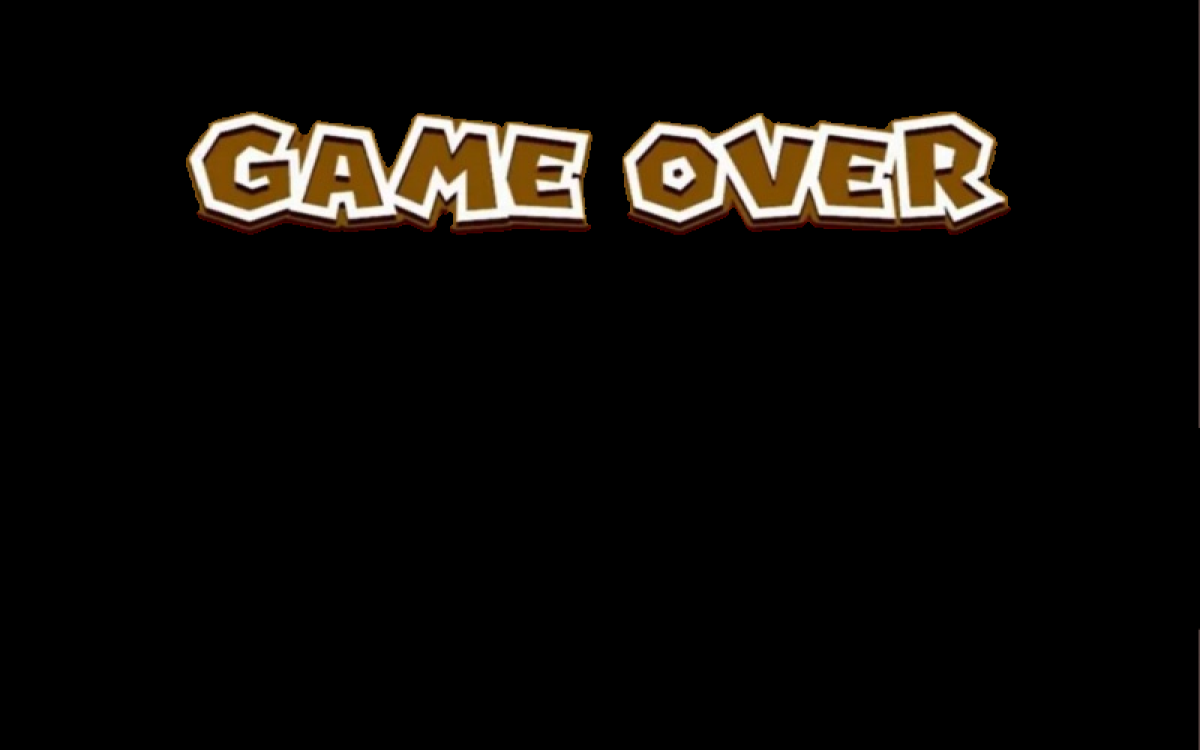
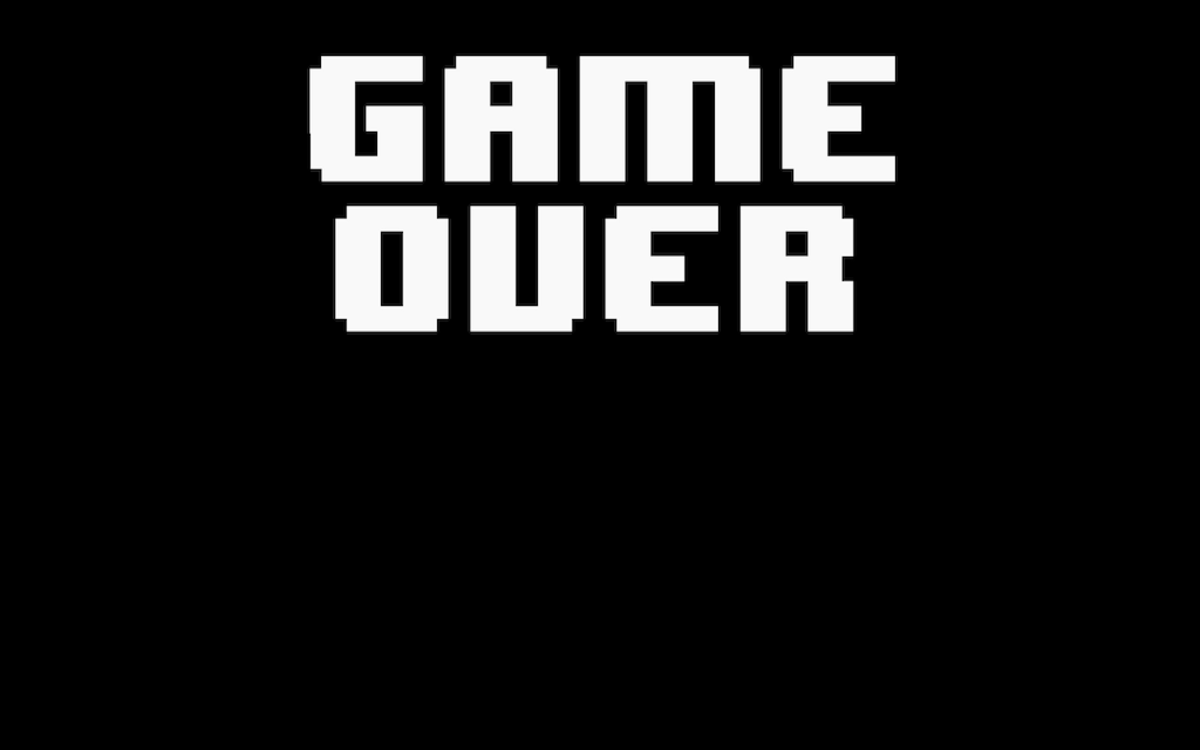
mise à jour

Changed region(s): [[0.1542, 0.0613, 0.8633, 0.46], [0.9867, 0.0, 1.0, 0.552], [0.9867, 0.8587, 1.0, 1.0]]

diff --git a/index.html b/index.html
@@ -37,9 +37,9 @@
             </div>
             
             <div id="fenetre">
-                <div id="statut" style="display: flex; flex-direction: row; position: absolute; z-index: 10; left: 0; vertical-align: middle;  justify-content: space-between;">
-                    <h2 style="margin: 0;">Points de vie</h2>
-                    <div id="pv" style="display: flex; flex-direction: row; margin-right: 200px;">
+                <div id="statut">
+                    <h2>PV</h2>
+                    <div id="pv">
                         <img  src="vie.png" alt="PV">
                         <img  src="vie.png" alt="PV">
                         <img  src="vie.png" alt="PV">
@@ -51,12 +51,12 @@
                         <img  src="vie.png" alt="PV">
                         <img  src="vie.png" alt="PV">
                     </div>
-                    <div id="fenetrescore" style="display: flex; flex-direction: row; margin-right: 200px;">
-                        <h2 style="margin: 0;">Score</h2>
+                    <div id="fenetrescore">
+                        <h2>Score</h2>
                         <label for="score" id="monscore">0</label>
                     </div>
-                    <div id="competences" style="display: flex; flex-direction: row;">
-                        <h2 style="margin: 0;">Compétences</h2>
+                    <div id="competences">
+                        <h2>Compétences</h2>
                         <div><img id="logo1" src="html.png" alt="html"></div>
                         <div><img id="logo2" src="css.png" alt="css"></div>
                         <div><img id="logo3" src="js.png" alt="js"></div>
@@ -74,7 +74,8 @@
                 </div>
                 
                 <img id="fond" src="imagedefond.jpg" alt="fond">
-                <img id="gameover" src="gameover.png" alt="gameover" style="z-index: 10000;">
+                <img id="gameover" src="gameover.png" alt="gameover">
+                <img id="detectivemort" src="détective-mort.png" alt="imagefin">
                 </div>
             </div>
             

diff --git a/jeu.css b/jeu.css
@@ -80,6 +80,7 @@ h1 {
 section{
     display: flex;
     flex-direction: row;
+    margin-top: -55px;
 }
 
 #commandes{
@@ -96,7 +97,7 @@ section{
     right: 0;
     margin-left: auto;
     margin-right: auto;
-    z-index: 1;
+    z-index: 4;
 }
 
 #commandes img{
@@ -126,34 +127,61 @@ section{
 }
 
 #statut{
-    margin-top: 0px;
+    left: 0px;
     display: flex;
     flex-direction: row;
-    /* justify-content: space-around; */
+    justify-content: space-between;
+    position: absolute;
     text-align: center;
+    z-index: 1;
     
 }
 
 #statut h2{
     color: white;
-    
+    margin: 0;
+    font-family:'Comic Sans MS',serif;
+}
+
+#pv{
+    display: flex;
+    flex-direction: row;
+    margin-right: 50px;
+}
+
+#pv h2{
+    margin-right: 10px;
 }
 
 #pv img {
-    height: 20px;
-    width: 20px;
+    height: 35px;
+    width: 25px;
 }
 
+#fenetrescore{
+    display: flex;
+    flex-direction: row;
+    margin-right: 50px;
+}
+
+#fenetrescore h2{
+    margin-right: 30px;
+}
 
 #competences{
     display: flex;
-    flex-direction: column;
-    
+    flex-direction: row;    
 }
+
+#competences h2{
+    margin-right: 15px;
+}
+
 
 #competences img{
     display: none;
     align-content: center;
+    height: 35px;
 }
 
 #boutonstart{
@@ -180,7 +208,7 @@ section{
 
 #fenetre{
     overflow: hidden;
-    margin-left: 0;
+    margin-left: auto;
     margin-right: auto;
     margin-top: 90px;
     width: 1200px;
@@ -191,4 +219,19 @@ section{
 
 #fenetredefond{
     position : absolute;
+}
+
+#gameover{
+    z-index: 100;
+}
+
+#detectivemort{
+    position: absolute;
+    z-index: 100;
+    margin-right: auto;
+    margin-left: auto;
+    bottom: 0px;
+    left: 0;
+    height: 200px;
+    right: 0;
 }

diff --git a/jeu.js b/jeu.js
@@ -12,6 +12,7 @@ var imageDetective = window.document.getElementById('img1');
 var fenetreDeFond = window.document.getElementById('fenetredefond');
 var fondDuJeu = window.document.getElementById("fond");
 var gameover = window.document.getElementById("gameover");
+var detectivemort = window.document.getElementById("detectivemort");
 var monscore = window.document.getElementById("monscore");
 var pointdevie = window.document.getElementById("pv");
 var commandes = window.document.getElementById("commandes");
@@ -24,6 +25,7 @@ var interval = null
 fenetreDeJeu.style.display = 'none';
 fenetreStatut.style.display = 'none';
 gameover.style.display ="none";
+detectivemort.style.display = "none";
 commandes.style.display="none";
 
 //tableau balle et tableau fantome
@@ -258,18 +260,15 @@ if(tableauimage.length > 0){
         clearInterval(interval);
         fondDuJeu.style.display = "none";
         gameover.style.display = "block";
+        fenetreStatut.style.display = "none";
+        detectivemort.style.display = "block";
         
         container.remove();
         while(tableauFantome.length>0){
         tableauFantome.forEach(function(elmt){
             elmt.clean()
-            console.log("---------------------------------")
-            console.log(tableauFantome)
-            console.log("---------------------------------")
         })
-        console.log("_______________________________________")
-            console.log(tableauFantome)
-            console.log("___________________________________")
+        
         
 
     }
